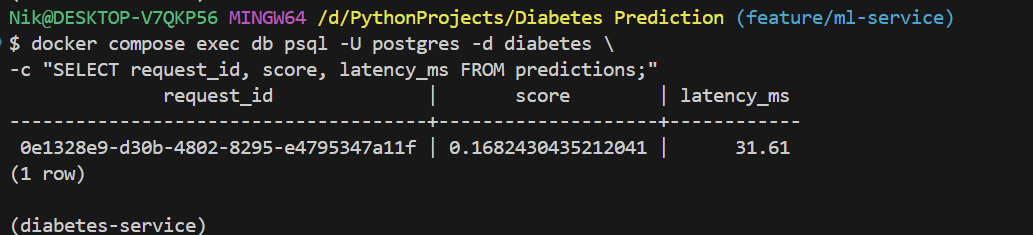
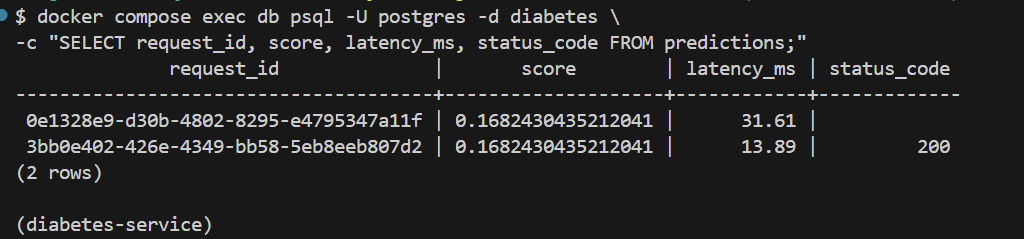
add status_code to predictions log

diff --git a/src/diabetes/db.py b/src/diabetes/db.py
@@ -11,7 +11,8 @@ CREATE TABLE IF NOT EXISTS predictions (
     model_version       text NOT NULL,
     features        jsonb NOT NULL,
     score       double precision NOT NULL,
-    latency_ms real
+    latency_ms real,
+    status_code integer
 )
 """
 
@@ -21,14 +22,15 @@ def init() -> None:
     with psycopg.connect(settings.database_url) as conn:
         conn.execute("SELECT pg_advisory_xact_lock(8003)")
         conn.execute(DDL)
+        conn.execute("ALTER TABLE predictions ADD COLUMN IF NOT EXISTS status_code integer")
 
 
-def save_prediction(request_id : str, features : dict, score : float, model_version : str, latency_ms : float) -> None:
+def save_prediction(request_id : str, features : dict, score : float, model_version : str, latency_ms : float, status_code: int) -> None:
     if not settings.database_url:
         return
     with psycopg.connect(settings.database_url) as conn:
             conn.execute(
-            "INSERT INTO predictions (request_id, model_version, features, score, latency_ms) "
-            "VALUES (%s, %s, %s, %s, %s)",
-            (request_id, model_version, Json(features), score, latency_ms),
+            "INSERT INTO predictions (request_id, model_version, features, score, latency_ms, status_code) "
+            "VALUES (%s, %s, %s, %s, %s, %s)",
+            (request_id, model_version, Json(features), score, latency_ms, status_code),
         )

diff --git a/src/diabetes/service/app.py b/src/diabetes/service/app.py
@@ -76,7 +76,9 @@ def predict(x: Features, bg: BackgroundTasks) -> Prediction:
 
     latency_ms = round((time.perf_counter() - t0) * 1000, 2)
 
-    bg.add_task(db.save_prediction, request_id, payload, score, app.state.version, latency_ms)
+    status_code = 200
+
+    bg.add_task(db.save_prediction, request_id, payload, score, app.state.version, latency_ms, status_code)
 
     diabetes = (score >= app.state.meta["threshold"])
 

diff --git a/README.md b/README.md
@@ -109,7 +109,7 @@ curl -X POST localhost:8000/v1/predict -H "Content‐Type: application/json" -d 
 
 ```bash
 docker compose exec db psql -U postgres -d diabetes \
--c "SELECT request_id, score, latency_ms FROM predictions;"
+-c "SELECT request_id, score, latency_ms, status_code FROM predictions;"
 ```
 
 ![alt text](./images/image-10.png)
@@ -164,7 +164,7 @@ kubectl rollout status deploy/diabetes‐service
 Создаем туннель с порта 8080 нашей машины до порта 80 сервиса нашего кластера
 
 ```bash
-kubectl port‐forward svc/diabetes‐service 8080:80
+kubectl port-forward svc/diabetes-service 8080:80
 ```
 ![alt text](./images/image-16.png)
 
@@ -240,7 +240,7 @@ P95 скакнул до 200 мс
 Далее осуществим выкат новой версии нашего сервера на кластер kubernetes. Поскольку мы прописали новый файл с нагрузочным тестированием, то можем собрать новый докер образ нашего сервиса. Сначала соберем новый докер образ c тегом 1.1 командой:
 
 ```bash
-docker build -t diabetes‐service:1.1 .
+docker build -t diabetes-service:1.1 .
 ```
 ![alt text](./images/image-19.png)
 
